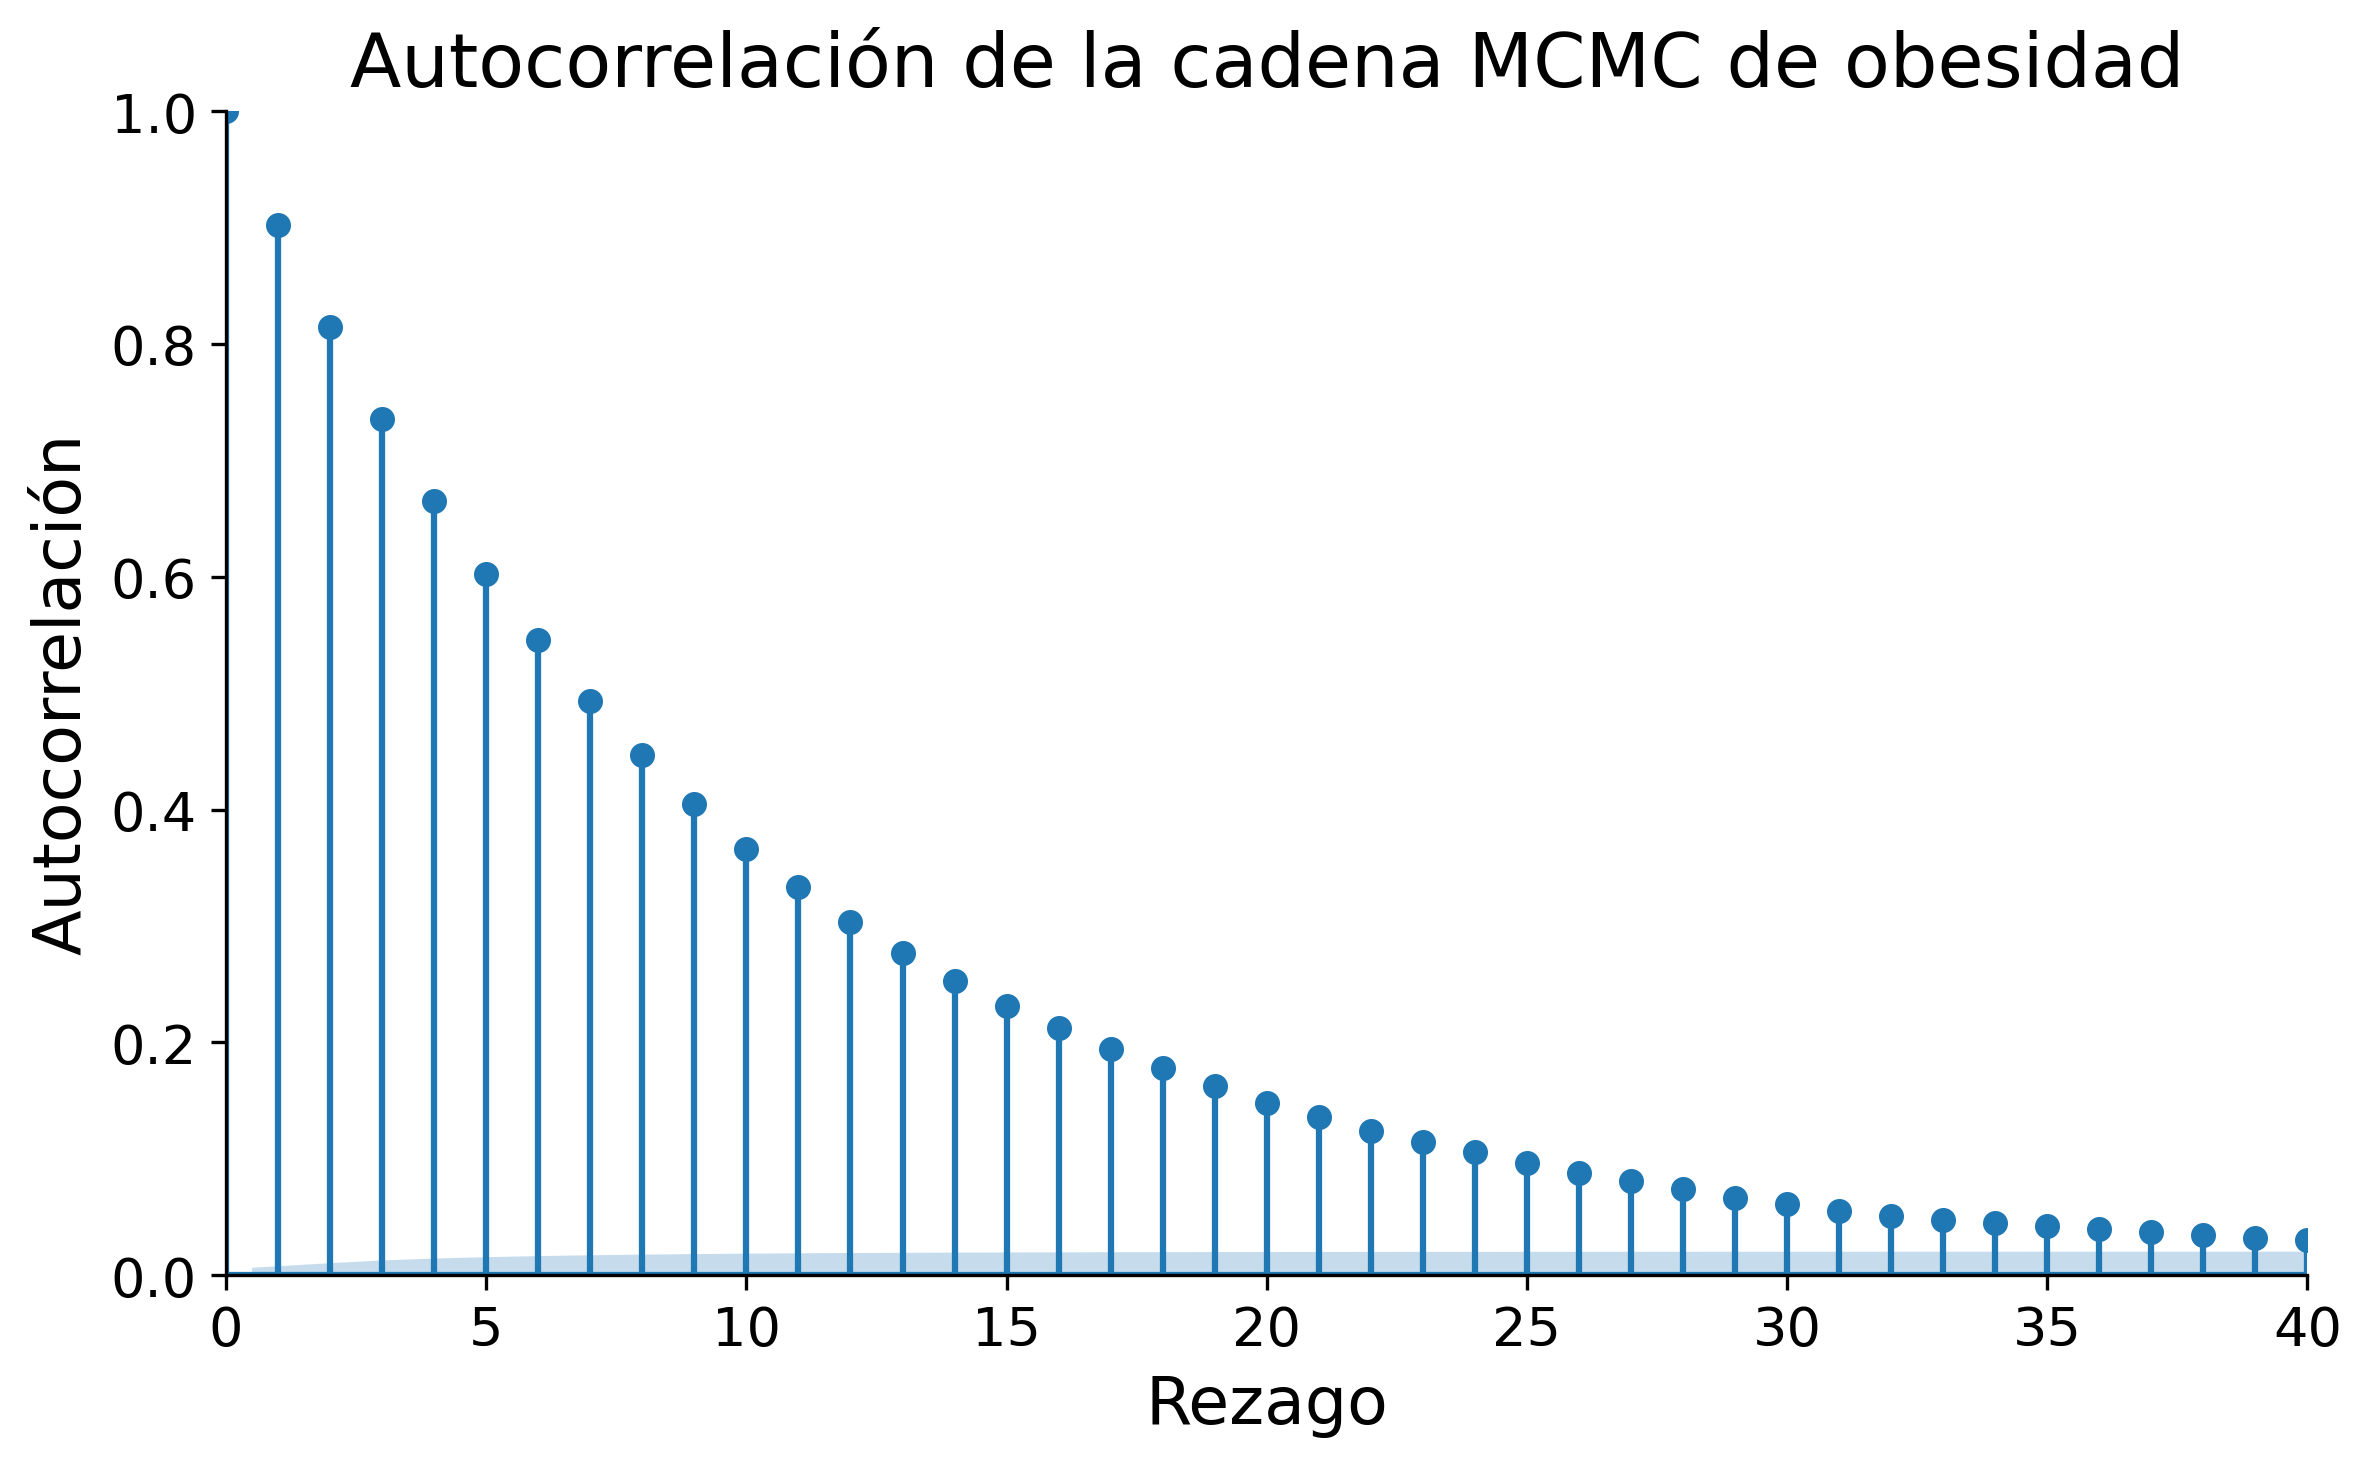
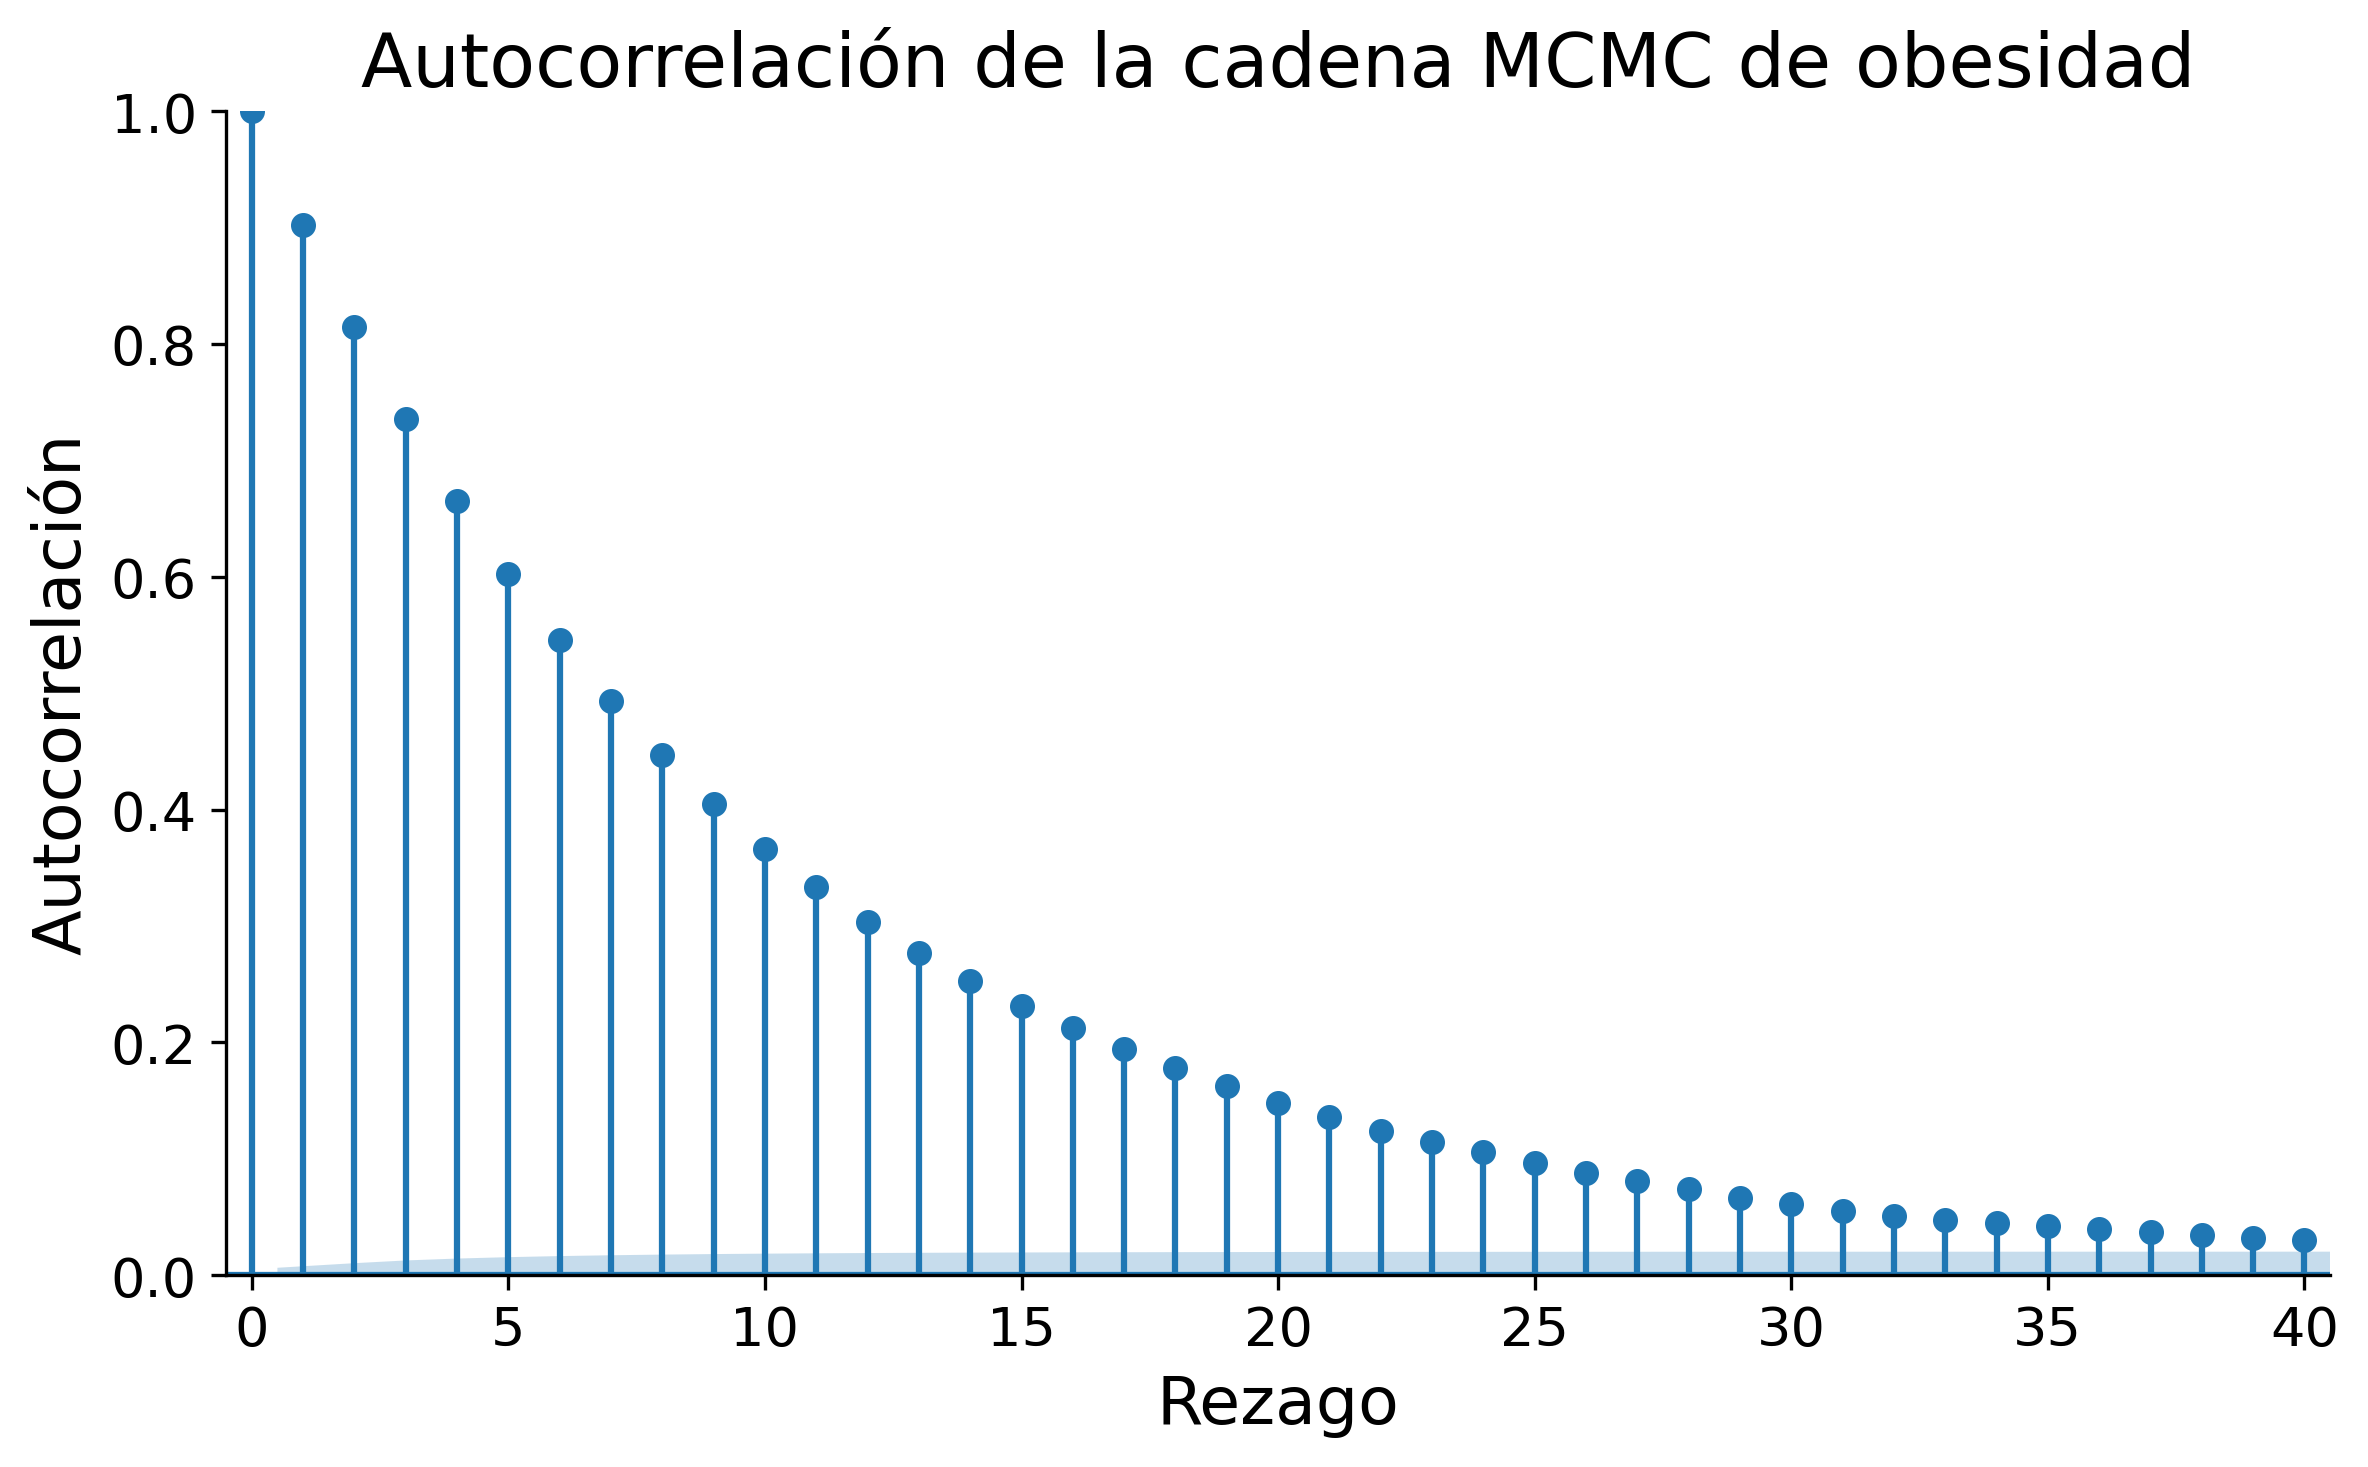
fix: arregla leyendas de histogramas

diff --git a/src/analysis/modelo.py b/src/analysis/modelo.py
@@ -185,12 +185,18 @@ def plot_distribucion_global(
     plt.title(
         f"Distribución posterior de la prevalencia de {parametro} infantil", fontsize=20
     )
-    plt.legend()
 
     plt.tick_params(axis="both", labelsize=16)
-    plt.legend(fontsize=14)
+    plt.legend(
+        fontsize=14,
+        loc="upper center",
+        bbox_to_anchor=(0.5, -0.25),
+        ncol=2,
+        frameon=False,
+    )
 
-    plt.tight_layout()
+
+    plt.tight_layout(rect=[0, 0.08, 1, 1])
     sns.despine(top=True, right=True)
 
     if guardar_imagen:
@@ -232,7 +238,7 @@ def plot_autocorrelacion_global(
     ax.set_xlim(-0.5, lags + 0.5)
     ax.margins(x=0)
 
-    plt.xlim(0, lags)
+    plt.xlim(-0.5, lags + 0.5)
 
     plt.xlabel("Rezago", fontsize=16)
     plt.ylabel("Autocorrelación", fontsize=16)
